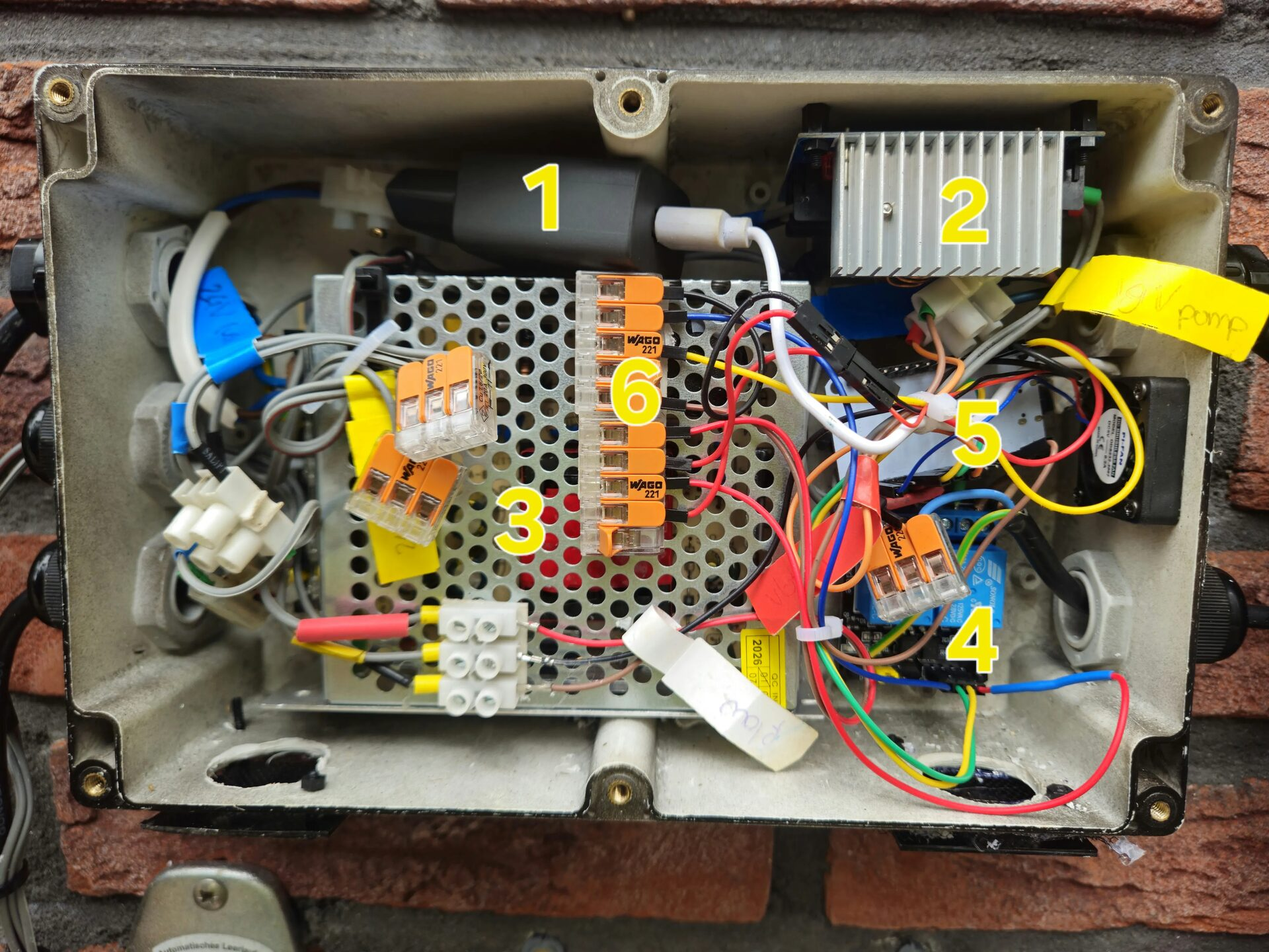
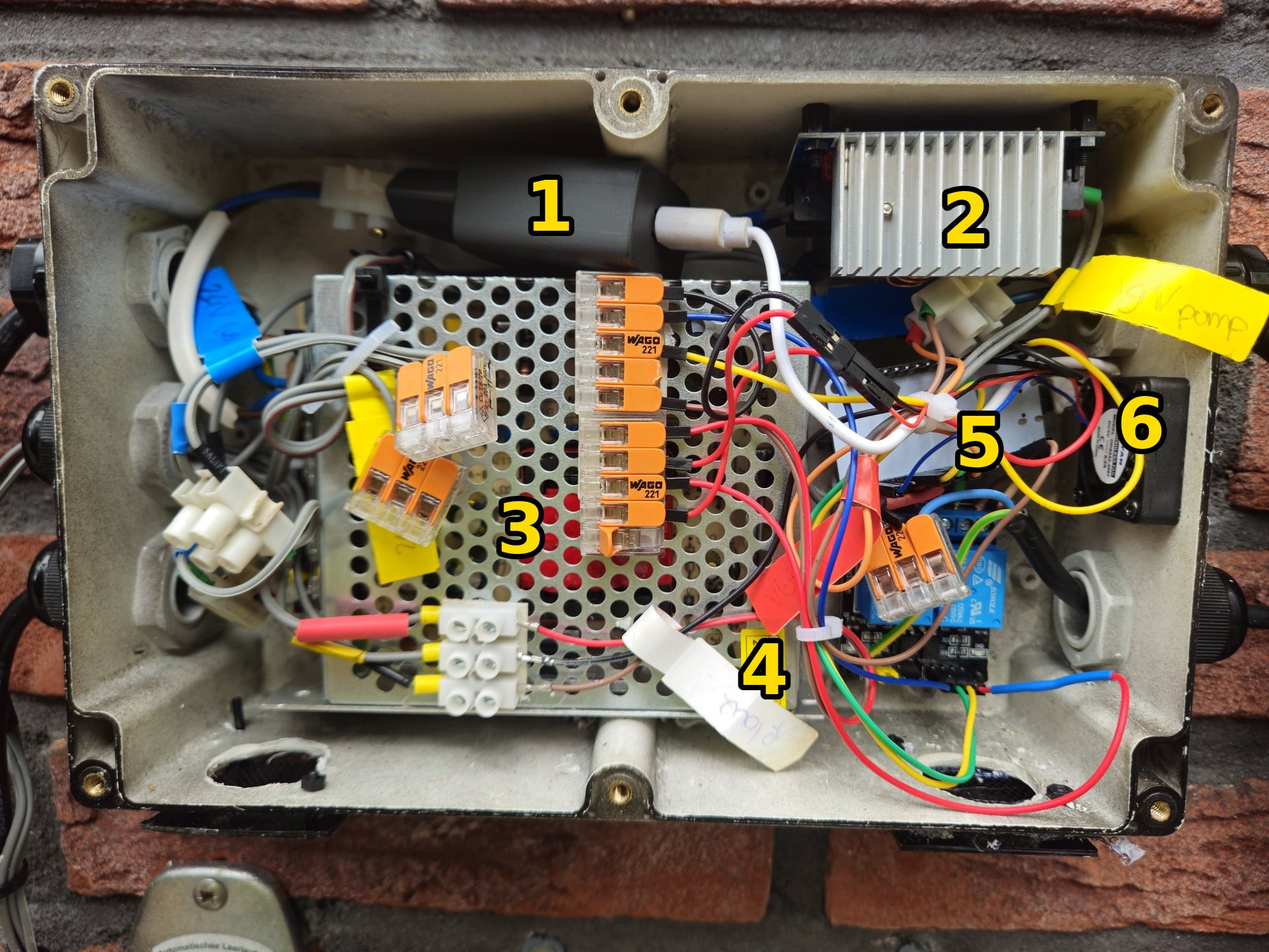
Add illustrated diagrams, regenerate annotated photos with fixed numbering
- diagram.html now uses illustrated_*.png (drawn diagrams) as the primary
  reference images instead of photos; annotated photos are kept in
  photos/ for those who prefer real hardware shots (linked from the page)
- Regenerated all 6 ann_*.jpg photos from photos/raw/ with numbering that
  matches the new illustrations: the interior photo now gets its own "6"
  for the fan (previously unlabeled there; old "6" was Wago connectors,
  which is dropped as a numbered callout and only listed under Sundries)
- Side_left/bottom stay as separate photos (can't merge two real photos
  the way the illustration merges the two views), but numbering (19/20/21/22)
  is consistent with the illustrated version
- Parts table: fan row now carries both badges 6 (fan itself) and 8
  (exterior outlet/mesh); removed the now-unnumbered Wago row
- photos/README.md documents illustrated/ alongside raw/

diff --git a/diagram.html b/diagram.html
@@ -31,13 +31,14 @@
 
 <h1>Rain Barrel Pump Automation — Parts Diagram</h1>
 <p class="subtitle">ESPHome + Home Assistant · © 2026 Lucas van der Meer · CC BY-SA 4.0</p>
+<p class="subtitle">Illustrated for clarity — real annotated photos of the same build are in <a href="photos/">photos/</a> (originals in <a href="photos/raw/">photos/raw/</a>).</p>
 
 <div class="section">
   <h2>Electronics enclosure (inside)</h2>
   <div class="photo-grid">
     <div class="photo-box">
-      <img src="photos/ann_interior.jpg" alt="Electronics enclosure interior">
-      <div class="photo-caption">1 USB 5V supply · 2 Buck converter (20V) · 3 24V power supply · 4 Relay module · 5 ESP32 · 6 Wago connectors</div>
+      <img src="photos/illustrated/illustrated_interior.png" alt="Electronics enclosure interior">
+      <div class="photo-caption">1 USB 5V supply · 2 Buck converter (20V) · 3 24V power supply · 4 Relay module · 5 ESP32 · 6 Fan</div>
     </div>
   </div>
 </div>
@@ -46,16 +47,12 @@
   <h2>Enclosure sides &amp; ventilation</h2>
   <div class="photo-grid">
     <div class="photo-box">
-      <img src="photos/ann_side_right.jpg" alt="Right side">
+      <img src="photos/illustrated/illustrated_side_right.png" alt="Right side">
       <div class="photo-caption">7 Pump cable gland · 8 Fan outlet with fly mesh · 9 Float switch cable gland</div>
     </div>
     <div class="photo-box">
-      <img src="photos/ann_side_left.jpg" alt="Left side">
-      <div class="photo-caption">20 230V mains entry · 21 Flow sensor cable · 22 Valve cable</div>
-    </div>
-    <div class="photo-box">
-      <img src="photos/ann_bottom.jpg" alt="Bottom ventilation inlet">
-      <div class="photo-caption">19 Ventilation air inlet with fly mesh</div>
+      <img src="photos/illustrated/illustrated_side_left.png" alt="Left side, with bottom ventilation inlets">
+      <div class="photo-caption">19 Ventilation air inlet with fly mesh (×2, bottom) · 20 230V mains entry · 21 Flow sensor cable · 22 Valve cable</div>
     </div>
   </div>
 </div>
@@ -64,7 +61,7 @@
   <h2>Plumbing (wall)</h2>
   <div class="photo-grid">
     <div class="photo-box">
-      <img src="photos/ann_plumbing.jpg" alt="Plumbing overview">
+      <img src="photos/illustrated/illustrated_plumbing.png" alt="Plumbing overview">
       <div class="photo-caption">10 Wall tap · 11 Solenoid valve · 12 Swivel couplings (×2) · 13 Flow sensor · 14 Non-return valve · 15 Manifold</div>
     </div>
   </div>
@@ -74,12 +71,8 @@
   <h2>In and around the rain barrel</h2>
   <div class="photo-grid">
     <div class="photo-box">
-      <img src="photos/ann_pump.jpg" alt="Pump">
-      <div class="photo-caption">17 Parkside PRPA 20-Li B3 pump — modified to run on fixed 20V DC</div>
-    </div>
-    <div class="photo-box">
-      <img src="photos/ann_float.jpg" alt="Float switch">
-      <div class="photo-caption">18 Float switch — hangs from barrel rim, signals when barrel is empty</div>
+      <img src="photos/illustrated/illustrated_pump_float.png" alt="Pump and float switch inside the barrel">
+      <div class="photo-caption">17 Parkside PRPA 20-Li B3 pump — modified to run on fixed 20V DC · 18 Float switch — hangs from barrel rim, signals when barrel is empty</div>
     </div>
   </div>
 </div>
@@ -97,8 +90,7 @@
     <tr><td><span class="num-badge">4</span></td><td>Relay module, 2-channel 5V</td><td>With optocoupler, active-low trigger (SUNFOUNDER). Controls pump and valve.</td><td>Amazon</td></tr>
     <tr><td><span class="num-badge">13</span></td><td>Flow sensor ¾" brass</td><td>YF-S201 variant, ~444 pulses/litre. Detects water draw.</td><td>Amazon</td></tr>
     <tr><td><span class="num-badge">18</span></td><td>Float switch</td><td>Dry contact, 3 wires (COM/NO/NC), 3m cable.</td><td>Amazon</td></tr>
-    <tr><td><span class="num-badge">8</span></td><td>30mm 5V PWM fan</td><td>Enclosure cooling. Controlled via GPIO23, activates above 65°C.</td><td>Electronics supplier</td></tr>
-    <tr><td><span class="num-badge">6</span></td><td>Wago 221 connectors</td><td>Wire distribution and common ground rail.</td><td>Hardware store</td></tr>
+    <tr><td><span class="num-badge">6</span><span class="num-badge">8</span></td><td>30mm 5V PWM fan</td><td>Enclosure cooling. Controlled via GPIO23, activates above 65°C. 6 = fan itself (interior), 8 = outlet grille with fly mesh (exterior).</td><td>Electronics supplier</td></tr>
   </table>
 
   <h3>Plumbing</h3>

diff --git a/photos/README.md b/photos/README.md
@@ -1,7 +1,10 @@
 # Photos
 
-Referenced by [../diagram.html](../diagram.html). Drop the following files
-in here (filenames must match exactly):
+The annotated photos below were the original numbered callout images for
+[../diagram.html](../diagram.html). That page now uses the illustrated
+versions in [`illustrated/`](illustrated/) instead — these photos are
+kept for reference (real hardware, not a drawing). Drop the following
+files in here (filenames must match exactly):
 
 | File | Shows | Numbered callouts |
 |---|---|---|
@@ -29,3 +32,18 @@ re-annotate them yourself, or just see the unedited shots).
 | `raw/raw_pump.jpg` | `ann_pump.jpg` |
 
 No raw original for `ann_float.jpg` was provided.
+
+## `illustrated/`
+
+Illustrated (drawn, not photographed) versions used in
+[../diagram.html](../diagram.html). Generated from the photos, so the
+same subjects, but not always the same numbering or grouping — see the
+notes column.
+
+| File | Corresponds to | Notes |
+|---|---|---|
+| `illustrated/illustrated_interior.png` | `ann_interior.jpg` | Adds a new callout 6 for the fan itself; the fan wasn't separately numbered in the photo (6 there was Wago connectors, dropped as a numbered callout — still listed under Sundries) |
+| `illustrated/illustrated_side_right.png` | `ann_side_right.jpg` | Same callouts (7, 8, 9) |
+| `illustrated/illustrated_side_left.png` | `ann_side_left.jpg` + `ann_bottom.jpg` | Merges both photos into one image — 19 (bottom vents, ×2) and 20/21/22 (side glands) together |
+| `illustrated/illustrated_plumbing.png` | `ann_plumbing.jpg` | Same callouts (10-15) |
+| `illustrated/illustrated_pump_float.png` | `ann_pump.jpg` + `ann_float.jpg` | Merges both photos into one image (17, 18) |
